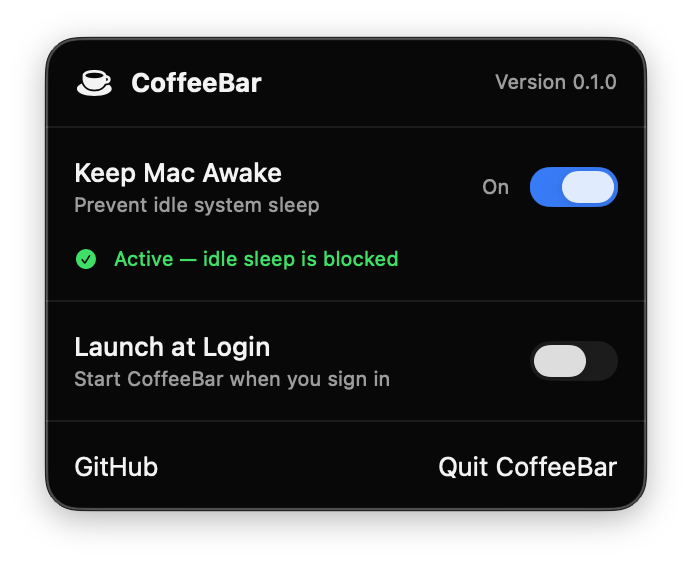
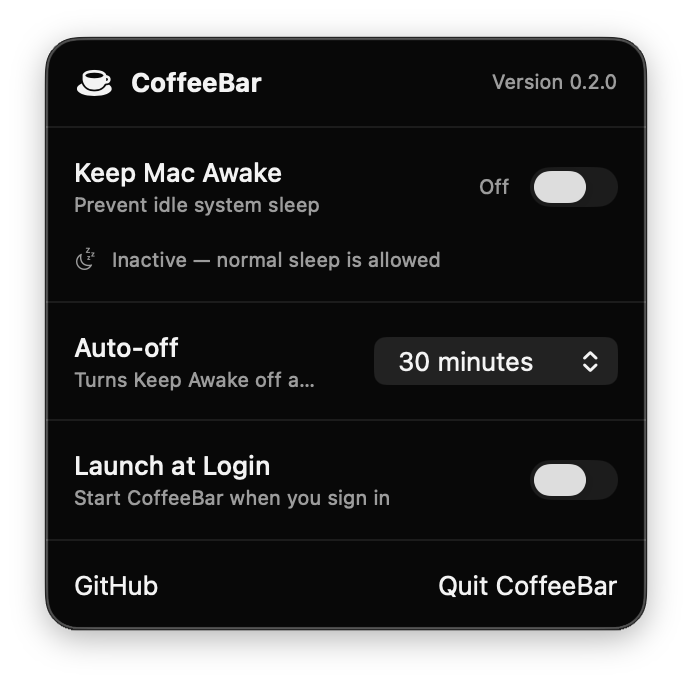
feat(keep-awake): add session auto-off

diff --git a/CoffeeBar/CoffeeBar/Models/AppState.swift b/CoffeeBar/CoffeeBar/Models/AppState.swift
@@ -6,10 +6,43 @@
 //
 
 import Combine
+import Foundation
+
+enum AutoOffDuration: CaseIterable, Equatable, Identifiable {
+    case thirtyMinutes
+    case oneHour
+    case untilTurnedOff
+
+    var id: Self { self }
+
+    var label: String {
+        switch self {
+        case .thirtyMinutes:
+            "30 minutes"
+        case .oneHour:
+            "1 hour"
+        case .untilTurnedOff:
+            "Until turned off"
+        }
+    }
+
+    fileprivate var timeInterval: TimeInterval? {
+        switch self {
+        case .thirtyMinutes:
+            30 * 60
+        case .oneHour:
+            60 * 60
+        case .untilTurnedOff:
+            nil
+        }
+    }
+}
 
 @MainActor
 final class AppState: ObservableObject {
     @Published private(set) var isActive = false
+    @Published private(set) var autoOffDuration: AutoOffDuration = .thirtyMinutes
+    @Published private(set) var autoOffDate: Date?
 
     var statusMessage: String {
         isActive
@@ -18,6 +51,8 @@ final class AppState: ObservableObject {
     }
 
     private let sleepManager: SleepManaging
+    private var autoOffTask: Task<Void, Never>?
+    private var autoOffID: UUID?
 
     init() {
         sleepManager = SleepManager()
@@ -32,20 +67,62 @@ final class AppState: ObservableObject {
             return
         }
 
-        let activationSucceeded: Bool
-
         if shouldBeActive {
-            activationSucceeded = sleepManager.activate()
+            isActive = sleepManager.activate()
+            if isActive {
+                scheduleAutoOff()
+            }
         } else {
-            sleepManager.deactivate()
-            activationSucceeded = false
+            deactivate()
         }
-
-        isActive = activationSucceeded
     }
 
     func deactivate() {
+        cancelAutoOff()
         sleepManager.deactivate()
         isActive = false
+    }
+
+    func setAutoOffDuration(_ duration: AutoOffDuration) {
+        guard duration != autoOffDuration else {
+            return
+        }
+
+        autoOffDuration = duration
+        if isActive {
+            scheduleAutoOff()
+        }
+    }
+
+    private func scheduleAutoOff() {
+        cancelAutoOff()
+
+        guard let timeInterval = autoOffDuration.timeInterval else {
+            return
+        }
+
+        let id = UUID()
+        autoOffID = id
+        autoOffDate = Date().addingTimeInterval(timeInterval)
+        autoOffTask = Task { [weak self] in
+            do {
+                try await Task.sleep(nanoseconds: UInt64(timeInterval * 1_000_000_000))
+            } catch {
+                return
+            }
+
+            guard let self, self.autoOffID == id else {
+                return
+            }
+
+            self.deactivate()
+        }
+    }
+
+    private func cancelAutoOff() {
+        autoOffTask?.cancel()
+        autoOffTask = nil
+        autoOffID = nil
+        autoOffDate = nil
     }
 }

diff --git a/CoffeeBar/CoffeeBar/Features/MenuBar/MenuBarView.swift b/CoffeeBar/CoffeeBar/Features/MenuBar/MenuBarView.swift
@@ -77,6 +77,38 @@ struct MenuBarView: View {
 
             HStack(spacing: 10) {
                 VStack(alignment: .leading, spacing: 2) {
+                    Text("Auto-off")
+                        .fontWeight(.medium)
+
+                    Text(appState.autoOffDate?.formatted(date: .omitted, time: .shortened) ?? "Turns Keep Awake off automatically")
+                        .font(.caption)
+                        .foregroundStyle(.secondary)
+                }
+
+                Spacer()
+
+                Picker(
+                    "Auto-off after",
+                    selection: Binding(
+                        get: { appState.autoOffDuration },
+                        set: appState.setAutoOffDuration
+                    )
+                ) {
+                    ForEach(AutoOffDuration.allCases) { duration in
+                        Text(duration.label).tag(duration)
+                    }
+                }
+                .labelsHidden()
+                .pickerStyle(.menu)
+            }
+            .padding(14)
+            .accessibilityElement(children: .contain)
+            .accessibilityLabel("Auto-off after")
+
+            Divider()
+
+            HStack(spacing: 10) {
+                VStack(alignment: .leading, spacing: 2) {
                     Text("Launch at Login")
                         .fontWeight(.medium)
 

diff --git a/CoffeeBar/CoffeeBarTests/AppStateTests.swift b/CoffeeBar/CoffeeBarTests/AppStateTests.swift
@@ -59,6 +59,37 @@ final class AppStateTests: XCTestCase {
         XCTAssertEqual(appState.statusMessage, "Inactive — normal sleep is allowed")
         XCTAssertEqual(sleepManager.activateCallCount, 1)
     }
+
+    func testAutoOffIsScheduledForActiveSession() {
+        let sleepManager = SleepManagerSpy()
+        let appState = AppState(sleepManager: sleepManager)
+
+        appState.setActive(true)
+
+        XCTAssertNotNil(appState.autoOffDate)
+        XCTAssertEqual(appState.autoOffDuration, .thirtyMinutes)
+    }
+
+    func testTurningOffCancelsAutoOff() {
+        let sleepManager = SleepManagerSpy()
+        let appState = AppState(sleepManager: sleepManager)
+
+        appState.setActive(true)
+        appState.setActive(false)
+
+        XCTAssertNil(appState.autoOffDate)
+    }
+
+    func testUntilTurnedOffDoesNotScheduleAutoOff() {
+        let sleepManager = SleepManagerSpy()
+        let appState = AppState(sleepManager: sleepManager)
+
+        appState.setAutoOffDuration(.untilTurnedOff)
+        appState.setActive(true)
+
+        XCTAssertTrue(appState.isActive)
+        XCTAssertNil(appState.autoOffDate)
+    }
 }
 
 @MainActor

diff --git a/README.md b/README.md
@@ -16,14 +16,15 @@
 CoffeeBar is a lightweight native macOS menu bar app that prevents idle system sleep while AI agents, builds, downloads, and other long-running tasks finish. It has no accounts or telemetry and never changes your power settings permanently.
 
 <p align="center">
-  <img src="docs/coffeebar.png" alt="CoffeeBar menu showing Keep Mac Awake and Launch at Login controls" width="420" />
+  <img src="docs/coffeebar.png" alt="CoffeeBar menu bar controls" width="420" />
 </p>
 
 ## Why CoffeeBar?
 
 Long-running work can be interrupted when a Mac goes to sleep. CoffeeBar gives you one clear switch to keep the system awake only while you need it.
 
-- One-click **Keep Mac Awake** control.
+- One-click **Keep Mac Awake** control with auto-off after 30 minutes by default.
+- Choose 30 minutes, 1 hour, or keep it on until manually disabled.
 - Native menu bar experience with no permanent Dock icon.
 - Clear active and inactive status.
 - Optional **Launch at Login**, disabled by default.
@@ -69,9 +70,10 @@ Only override Gatekeeper for a build downloaded from this repository or installe
 1. Open CoffeeBar from Finder, Launchpad, or Spotlight.
 2. Click the cup in the menu bar.
 3. Enable **Keep Mac Awake** while work is running.
-4. Disable it when normal idle sleep should resume.
+4. Choose the auto-off duration before or during the session. Select **Until turned off** for long-running work.
+5. Disable it when normal idle sleep should resume.
 
-The active panel shows **Active — idle sleep is blocked**, and the menu bar cup gains a small badge. CoffeeBar always starts with Keep Awake inactive.
+The active panel shows **Active — idle sleep is blocked**, its scheduled auto-off time, and the menu bar cup gains a small badge. CoffeeBar always starts with Keep Awake inactive.
 
 ### Reopen CoffeeBar
 
@@ -96,7 +98,7 @@ CoffeeBar intentionally does not install updates automatically.
 
 ## How it works
 
-CoffeeBar uses a native macOS activity to prevent idle system sleep only while Keep Awake is enabled. Display sleep, screen locking, and manual sleep remain available, and normal behavior returns immediately when CoffeeBar is disabled or closed.
+CoffeeBar uses a native macOS activity to prevent idle system sleep only while Keep Awake is enabled. Keep Awake switches off automatically after its selected duration, or immediately when disabled or closed. Display sleep, screen locking, and manual sleep remain available.
 
 ## Privacy and security
 

diff --git a/PROJECT.md b/PROJECT.md
@@ -29,6 +29,7 @@ It should feel like a first-party macOS utility.
 Current version focuses only on:
 
 - Prevent Idle Sleep
+- Session auto-off after 30 minutes, 1 hour, or manual disable
 - Menu Bar
 - Native APIs
 
@@ -44,7 +45,7 @@ MenuBarExtra
 ```
 
 - `MenuBarExtra` owns the native menu bar interface.
-- `AppState` exposes the current `isActive` state to SwiftUI.
+- `AppState` exposes the current `isActive` state and owns one cancelable auto-off task per active session.
 - `SleepManager` owns the activity returned by `ProcessInfo` and makes activation and deactivation idempotent.
 - `ApplicationDelegate` releases any active sleep assertion before termination.
 
@@ -54,7 +55,7 @@ MenuBarExtra
 - Use `.idleSystemSleepDisabled` so display sleep and session locking remain available.
 - Keep state in memory and start inactive on every launch.
 - Use the official `https://github.com/carlosfachini/coffeebar` repository for public links and update metadata.
-- Use no timers, subprocesses, external dependencies, analytics or telemetry.
+- Use one cancelable in-process auto-off task; no subprocesses, external dependencies, analytics or telemetry.
 
 ## Version 0.1 Distribution
 

diff --git a/CHANGELOG.md b/CHANGELOG.md
@@ -2,6 +2,12 @@
 
 All notable CoffeeBar changes are documented in this file.
 
+## Unreleased
+
+### Added
+
+- Auto-off for Keep Awake sessions: 30 minutes by default, 1 hour, or manual disable.
+
 ## 0.1.0
 
 ### Added
